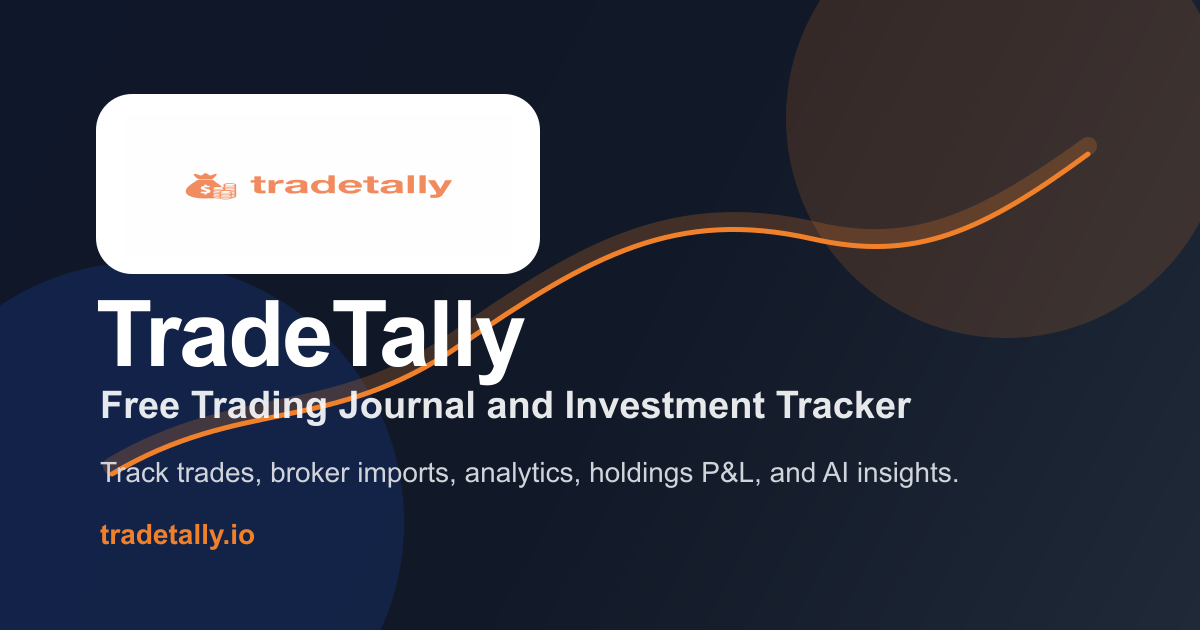
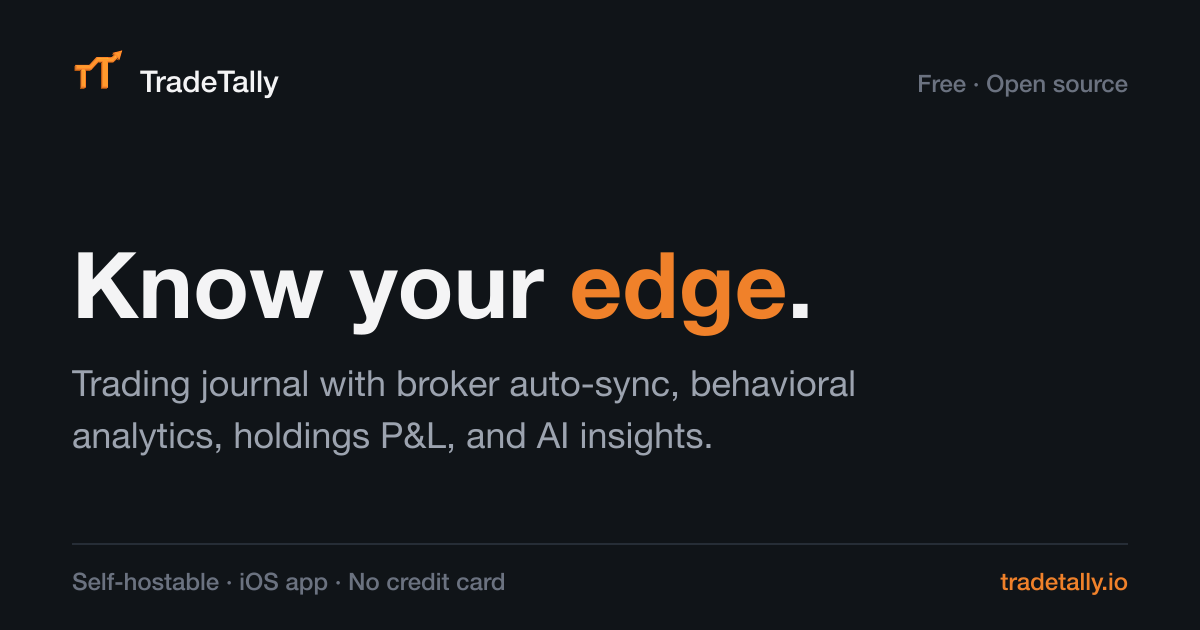
fix(brand): new social preview card with the real TradeTally mark
Replace the money-bag social preview artwork with a card built from the actual
favicon mark, matching the share-card design language. Add the file as
social-preview-v3.png and point index.html and the OG fallback at it - the old
FALLBACK_IMAGE referenced /social-preview-v2.png, which does not exist in this
repo, so bot link previews on self-hosted instances 404'd on the card image.

diff --git a/frontend/index.html b/frontend/index.html
@@ -19,8 +19,8 @@
     <meta property="og:description" content="Free open-source trading journal and investment tracker. Auto-sync Schwab and IBKR, stock analyzer, real-time holdings P&L, AI insights.">
     <meta property="og:type" content="website">
     <meta property="og:url" content="https://tradetally.io">
-    <meta property="og:image" content="https://tradetally.io/social-preview.png">
-    <meta property="og:image:secure_url" content="https://tradetally.io/social-preview.png">
+    <meta property="og:image" content="https://tradetally.io/social-preview-v3.png">
+    <meta property="og:image:secure_url" content="https://tradetally.io/social-preview-v3.png">
     <meta property="og:image:type" content="image/png">
     <meta property="og:image:width" content="1200">
     <meta property="og:image:height" content="630">
@@ -34,7 +34,7 @@
     <meta name="twitter:creator" content="@TradeTallyIO">
     <meta name="twitter:title" content="TradeTally - Free Trading Journal and Investment Tracker">
     <meta name="twitter:description" content="Free open-source trading journal and investment tracker. Auto-sync Schwab and IBKR, stock analyzer, real-time holdings P&L, AI insights.">
-    <meta name="twitter:image" content="https://tradetally.io/social-preview.png">
+    <meta name="twitter:image" content="https://tradetally.io/social-preview-v3.png">
     <meta name="twitter:image:alt" content="TradeTally Trading Journal Platform">
     <link rel="me" href="https://x.com/TradeTallyIO">
 

diff --git a/backend/src/controllers/og.controller.js b/backend/src/controllers/og.controller.js
@@ -2,7 +2,7 @@ const Trade = require('../models/Trade');
 const { fetchCurrentPriceForSymbol, computeUnrealized } = require('../services/openPositionPricing');
 const { renderTradeCardPng } = require('../services/shareCardImageService');
 
-const FALLBACK_IMAGE = '/social-preview-v2.png';
+const FALLBACK_IMAGE = '/social-preview-v3.png';
 const SITE_TITLE = 'TradeTally - Trading Journal with Behavioral Analytics';
 const SITE_DESCRIPTION = 'Free trading journal that detects revenge trading, overconfidence, and behavioral patterns. Auto-sync Schwab and IBKR. Open source and self-hostable.';
 
